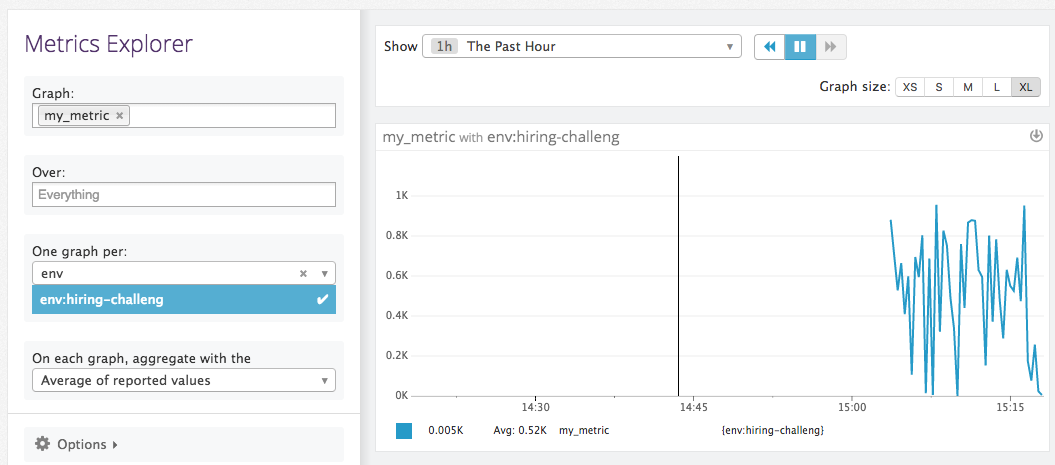
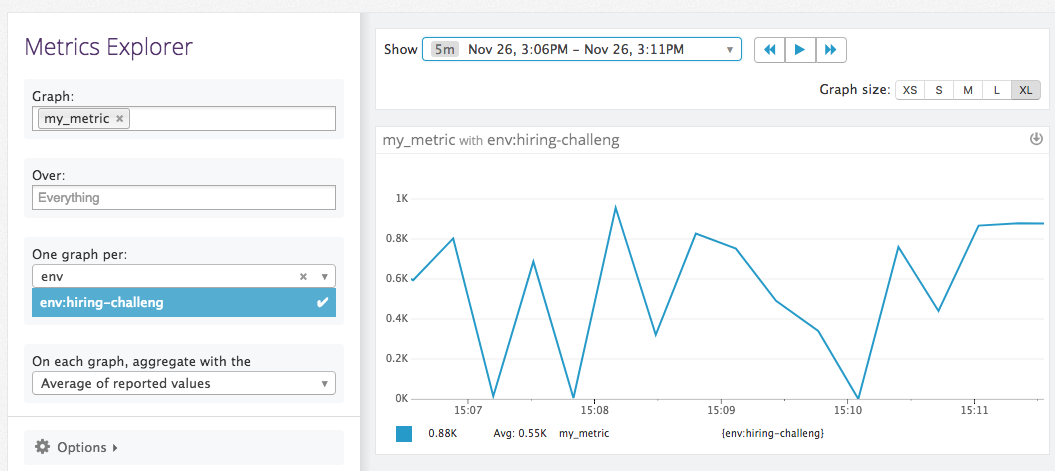
Update screenshots

diff --git a/answers.md b/answers.md
@@ -80,3 +80,6 @@ sudo docker ps
 ## Change Custom Agent Check Interval:
 - Changed via conf.d/my_metric.yaml<br/>
 ![Screenshot](/screenshots/05_yaml_file.png?raw=true "yaml file")
+
+- my_metric shown in the metric explorer:<br/>
+![Screenshot](/screenshots/05_metric_explorer.png?raw=true "yaml and py files")
